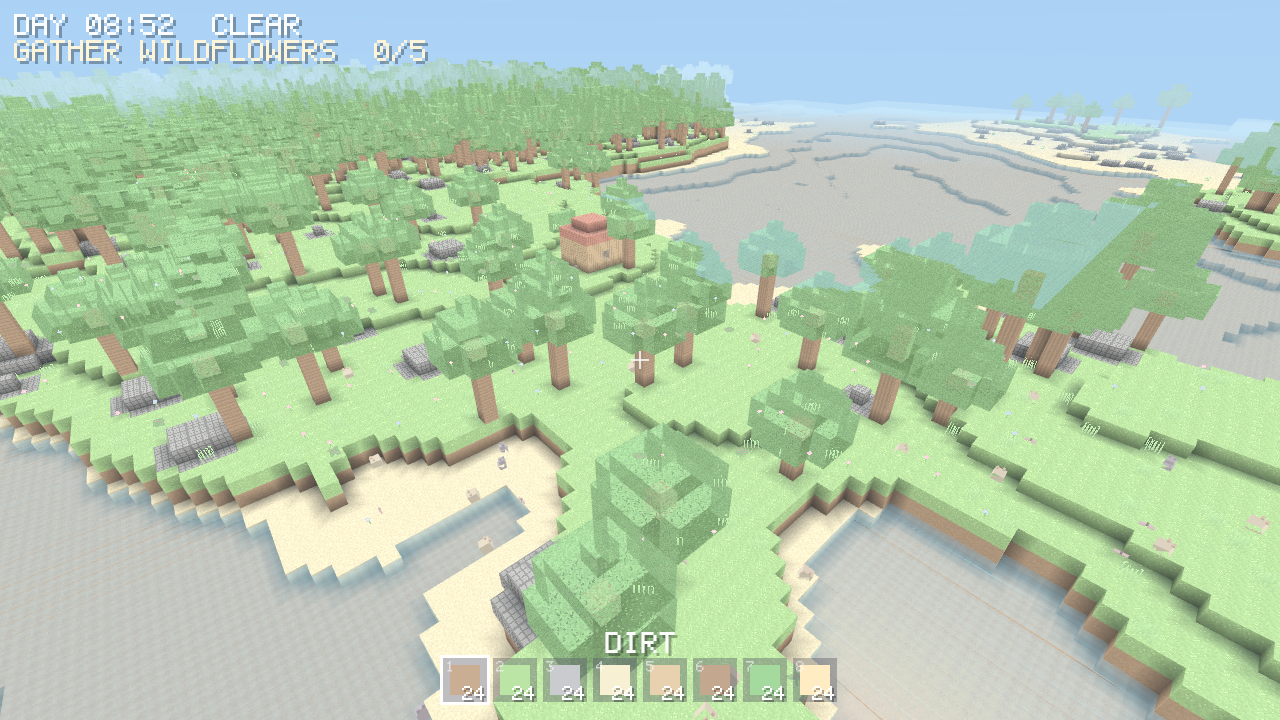
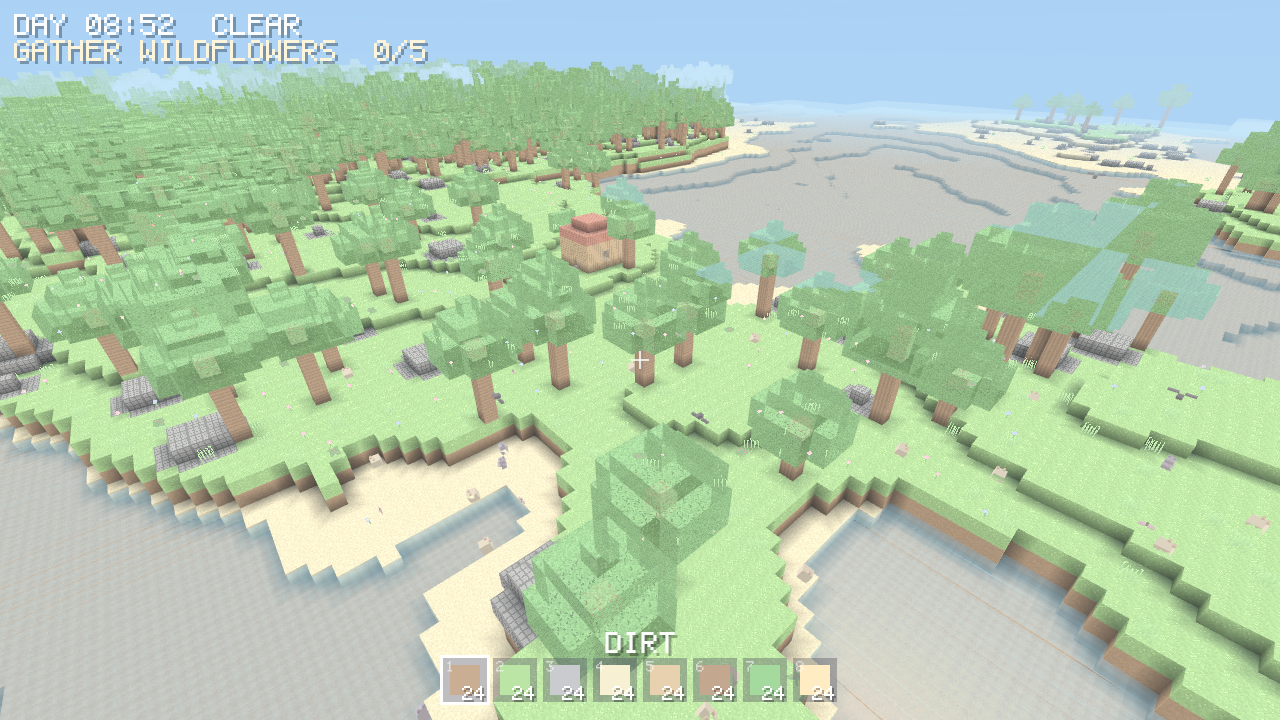
Stage 39: birds wheeling in the sky
- New Bird entity: a small dark flapping bird that spawns by day and roams in
  wide, high arcs overhead (reusing the flyer AI with a larger reach/altitude),
  adding life to the sky. Rendered as a body with two flapping swept-back wings.

All suites green, clippy clean, fmt applied.

diff --git a/crates/game/src/entity.rs b/crates/game/src/entity.rs
@@ -25,6 +25,8 @@ pub enum EntityKind {
     Butterfly,
     /// A nighttime firefly that drifts and glows.
     Firefly,
+    /// A bird that wheels high in the daytime sky.
+    Bird,
     /// A friendly sentient cat NPC you can talk to.
     Friend,
 }
@@ -91,6 +93,7 @@ impl Entity {
             EntityKind::Friend => (0.3, 0.5),
             EntityKind::Butterfly => (0.18, 0.2),
             EntityKind::Firefly => (0.12, 0.12),
+            EntityKind::Bird => (0.2, 0.2),
         }
     }
 
@@ -211,8 +214,10 @@ impl EntityManager {
             } else {
                 EntityKind::Critter
             }
-        } else if roll < 0.55 {
+        } else if roll < 0.5 {
             EntityKind::Butterfly
+        } else if roll < 0.58 {
+            EntityKind::Bird
         } else {
             EntityKind::Critter
         };
@@ -220,7 +225,8 @@ impl EntityManager {
         let base = Vec3::new(x, surface as f32 + 1.0, z);
         let home = match kind {
             EntityKind::Critter | EntityKind::Friend => base,
-            // Flyers hover a few blocks above the ground.
+            // Birds wheel high overhead; other flyers hover a few blocks up.
+            EntityKind::Bird => base + Vec3::new(0.0, 12.0 + self.rng.next_f32() * 8.0, 0.0),
             _ => base + Vec3::new(0.0, 2.0 + self.rng.next_f32() * 3.0, 0.0),
         };
         let npc = if kind == EntityKind::Friend {
@@ -347,29 +353,35 @@ fn update_entity<Q: SolidQuery>(
             }
             e.on_ground = flags.on_ground();
         }
-        EntityKind::Butterfly | EntityKind::Firefly => {
+        EntityKind::Butterfly | EntityKind::Firefly | EntityKind::Bird => {
             // Gentle wandering orbit around `home`, with a bobbing vertical sine.
             if e.decision_timer <= 0.0 {
                 let theta = rng.next_f32() * std::f32::consts::TAU;
-                let reach = if e.kind == EntityKind::Firefly {
-                    3.0
-                } else {
-                    5.0
+                let reach = match e.kind {
+                    EntityKind::Firefly => 3.0,
+                    EntityKind::Bird => 14.0, // birds roam in wide arcs
+                    _ => 5.0,
                 };
                 e.home += Vec3::new(theta.cos(), 0.0, theta.sin()) * reach * (rng.next_f32());
                 e.decision_timer = 1.0 + rng.next_f32() * 2.0;
-                // Keep the home anchored a sensible height above the terrain.
+                // Keep the home anchored a sensible height above the terrain
+                // (birds stay well above it).
                 let surface =
                     manager.surface_height(e.home.x.floor() as i32, e.home.z.floor() as i32);
-                let min_y = surface as f32 + 2.0;
+                let min_y = surface as f32
+                    + if e.kind == EntityKind::Bird {
+                        12.0
+                    } else {
+                        2.0
+                    };
                 if e.home.y < min_y {
                     e.home.y = min_y;
                 }
             }
-            let speed = if e.kind == EntityKind::Firefly {
-                0.6
-            } else {
-                1.1
+            let speed = match e.kind {
+                EntityKind::Firefly => 0.6,
+                EntityKind::Bird => 1.6,
+                _ => 1.1,
             };
             let to_home = e.home - e.position;
             let bob = (e.phase * 2.0).sin() * 0.35;
@@ -551,6 +563,37 @@ fn append_entity(verts: &mut Vec<Vertex>, indices: &mut Vec<u32>, e: &Entity, la
                 p + Vec3::new(-0.09, 0.0, -0.09),
                 p + Vec3::new(0.09, 0.18, 0.09),
                 glow,
+                layer,
+            );
+        }
+        EntityKind::Bird => {
+            // A small dark bird: body with two flapping swept-back wings.
+            let body = Color::rgb(86, 84, 96);
+            let wing = Color::rgb(108, 106, 120);
+            let flap = (e.phase * 9.0).sin() * 0.14;
+            append_box(
+                verts,
+                indices,
+                p + Vec3::new(-0.07, 0.0, -0.10),
+                p + Vec3::new(0.07, 0.12, 0.10),
+                body,
+                layer,
+            );
+            // Wings angled out either side, rising/falling with the flap.
+            append_box(
+                verts,
+                indices,
+                p + Vec3::new(-0.34, 0.04 + flap, -0.04),
+                p + Vec3::new(-0.07, 0.10 + flap, 0.06),
+                wing,
+                layer,
+            );
+            append_box(
+                verts,
+                indices,
+                p + Vec3::new(0.07, 0.04 + flap, -0.04),
+                p + Vec3::new(0.34, 0.10 + flap, 0.06),
+                wing,
                 layer,
             );
         }
